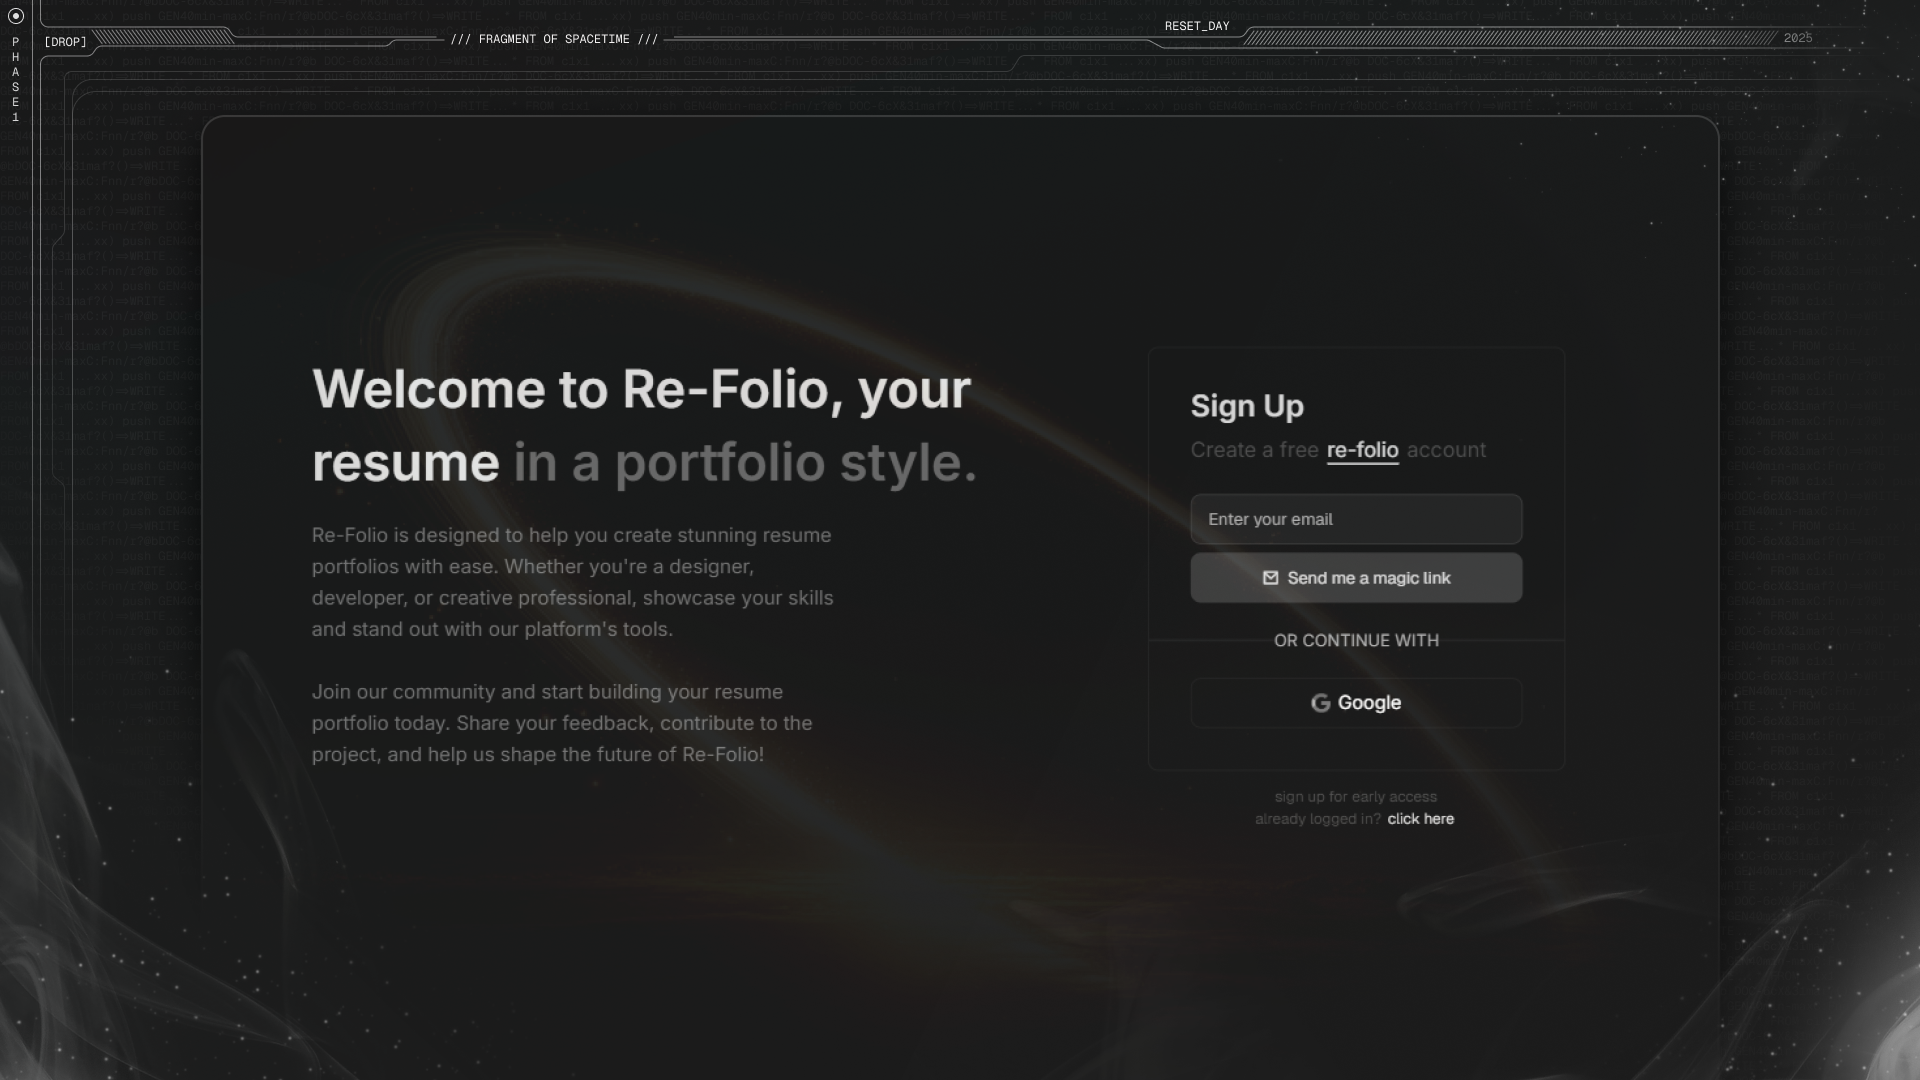
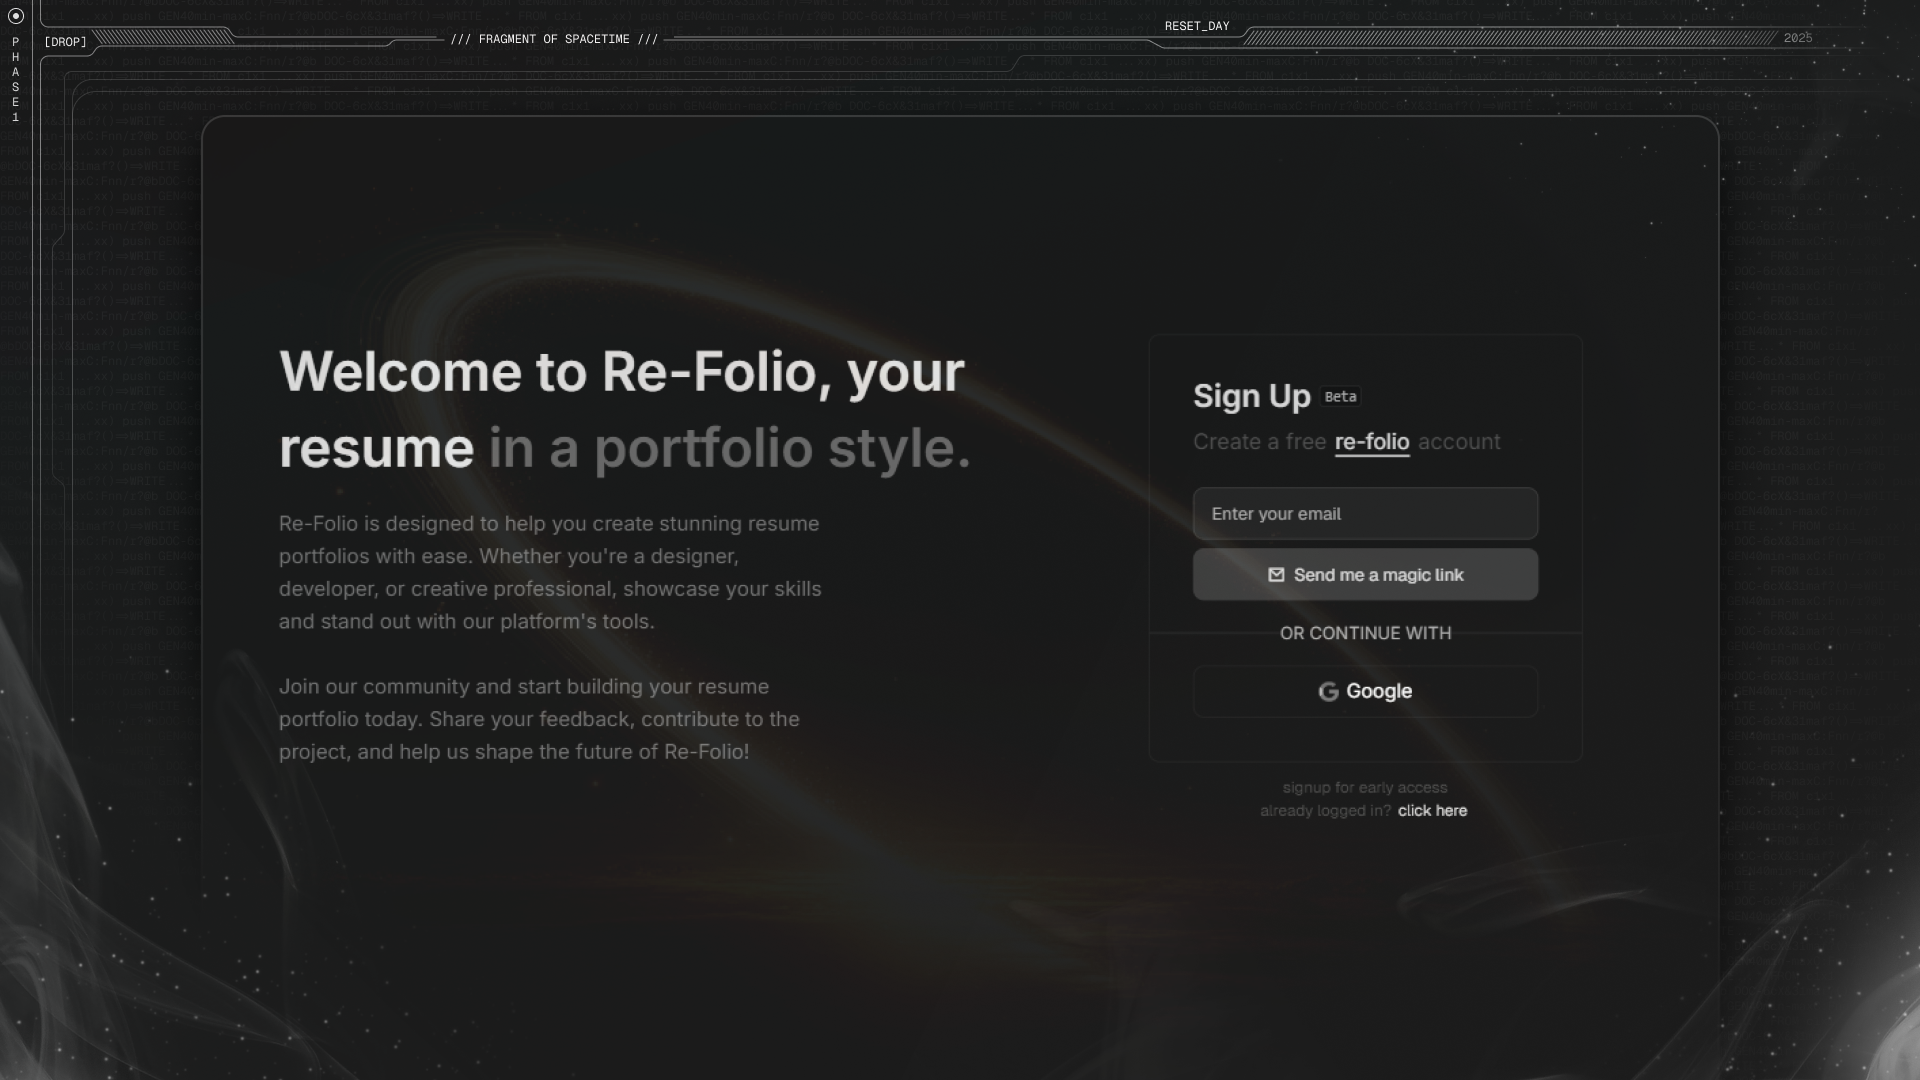
✨ feat(LoginCard): enhance sign-up section with beta label and improve layout

diff --git a/app/(main)/page.tsx b/app/(main)/page.tsx
@@ -12,6 +12,7 @@ import {
   Flex,
   Media,
   SmartLink,
+  Kbd,
 } from "@once-ui-system/core";
 import { useState, useEffect } from "react";
 import { Inter } from "next/font/google";
@@ -133,7 +134,13 @@ function LoginCard() {
       animate={{ opacity: 1, y: 0 }}
       transition={{ duration: 0.5 }}
     >
-      <Column maxWidth={37.5} center fillWidth fitHeight className="body-container">
+      <Column
+        maxWidth={37.5}
+        center
+        fillWidth
+        fitHeight
+        className="body-container"
+      >
         <CardContent
           email={email}
           setEmail={setEmail}
@@ -184,9 +191,22 @@ function CardContent({
         style={{ fontSize: "29px" }}
         className={inter.className + " text-big-lightest"}
       >
-        Sign Up
+        <Row vertical="center">
+          Sign Up&nbsp;
+          <Kbd
+            background="accent-medium"
+            border="accent-medium"
+            onBackground="accent-weak"
+            height={1.3}
+          >
+            Beta
+          </Kbd>
+        </Row>
       </Text>
-      <Text variant="body-default-xl" className={inter.className + " text-small"}>
+      <Text
+        variant="body-default-xl"
+        className={inter.className + " text-small"}
+      >
         Create a free{" "}
         <SmartLink href={"/"}>
           <u>re-folio</u>
@@ -194,7 +214,7 @@ function CardContent({
         account
       </Text>
       <Input
-      id=""
+        id=""
         placeholder="Enter your email"
         height="m"
         size={32}
@@ -261,12 +281,12 @@ function CardContent({
 
 function Divider() {
   return (
-    <Column fillWidth center>
+    <Column fillWidth center height={2.25}>
       <Line
         fillWidth
         width={25}
-        height={0.08}
-        style={{ backgroundColor: "#262626" }}
+        height={0.1}
+        style={{ backgroundColor: "#262626",position:"absolute" }}
         zIndex={9}
       />
       <Flex zIndex={10}>
@@ -286,10 +306,10 @@ function Divider() {
 function FooterLinks() {
   return (
     <>
-      <Text className="text-small" style={{ marginTop: "-30px" }}>
-        sign up for early access
+    <Text className="text-small" style={{ marginTop: "-30px" }}>
+        signup for early access
       </Text>
-      <Text className="text-small" style={{ marginTop: "-0px" }}>
+      <Text className="text-small" style={{ marginTop: "0px" }}>
         already logged in? <SmartLink href="/user/me">click here</SmartLink>
       </Text>
     </>
@@ -327,7 +347,9 @@ function LoginText() {
         >
           <Text
             style={{ fontSize: "15px" }}
-            className={inter.className + " text-paragraph text-responsive-paragraph"}
+            className={
+              inter.className + " text-paragraph text-responsive-paragraph"
+            }
           >
             Re-Folio is designed to help you create stunning resume portfolios
             with ease. Whether you're a designer, developer, or creative
